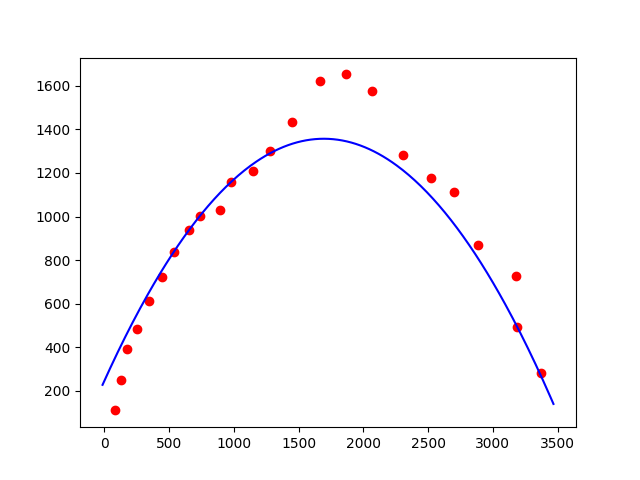
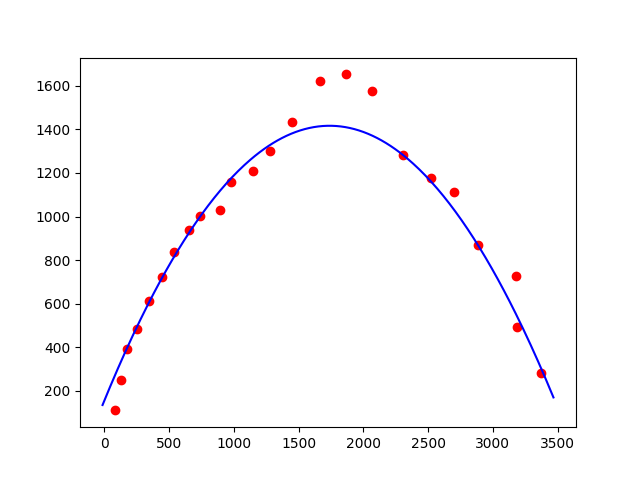
video

diff --git a/Code/CurveFitting.py b/Code/CurveFitting.py
@@ -225,8 +225,8 @@ def main():
 
     Parser = argparse.ArgumentParser()
     Parser.add_argument('--BasePath', default='./', help='Base path of project1, Default:./')
-    Parser.add_argument('--VideoFilePath', default='./Data/video1.mp4', help='MP4 file name, Default:video1.mp4')
-    Parser.add_argument('--SaveFolderName', default='graphs/video1', help='Folder to save graphs, Default:video1')
+    Parser.add_argument('--VideoFilePath', default='./Data/video2.mp4', help='MP4 file name, Default:video1.mp4')
+    Parser.add_argument('--SaveFolderName', default='graphs/video2', help='Folder to save graphs, Default:video1')
     Args = Parser.parse_args()
     BasePath = Args.BasePath
     VideoFilePath = Args.VideoFilePath
